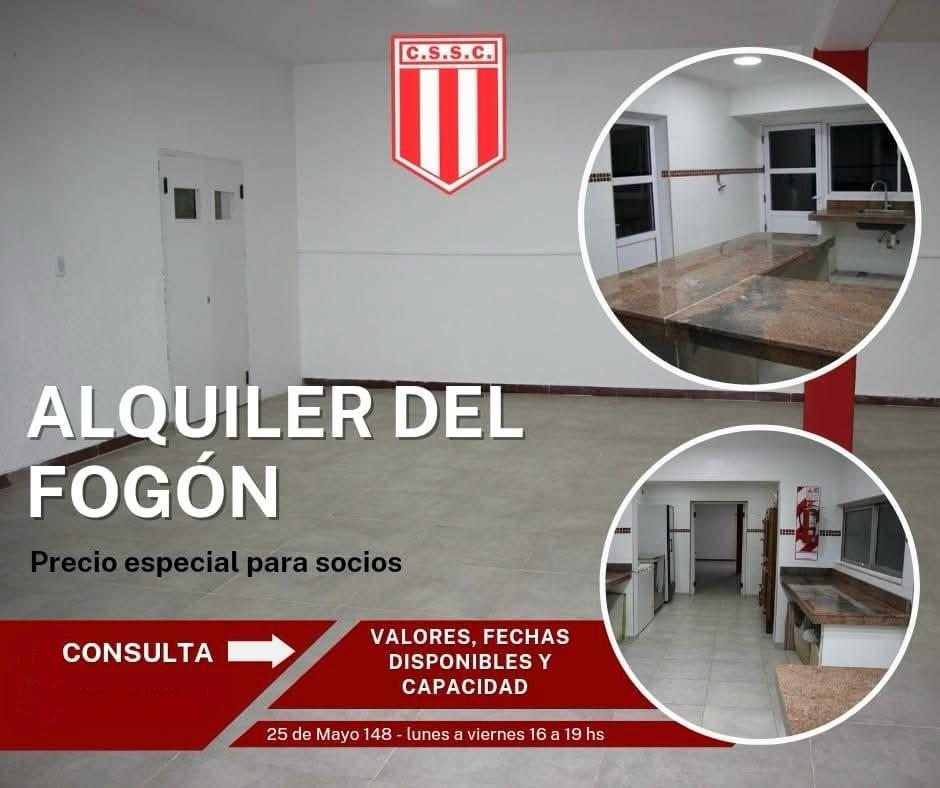
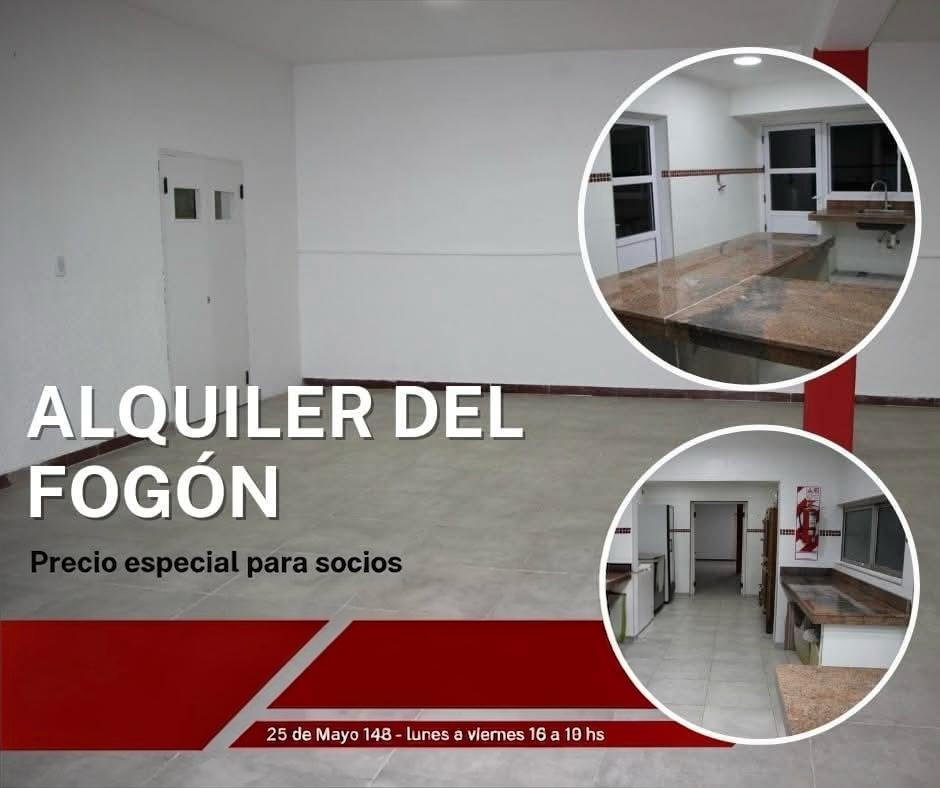
Inicio: secciones con fundido, carrusel deslizable y nueva foto del fogon

diff --git a/codigo/frontend/src/paginas/Inicio.css b/codigo/frontend/src/paginas/Inicio.css
@@ -75,3 +75,58 @@
     justify-content: center;
   }
 }
+
+/* Las secciones aparecen con un fundido suave cuando entran en la pantalla al bajar */
+@keyframes aparecer {
+  from {
+    opacity: 0;
+    transform: translateY(var(--e4));
+  }
+  to {
+    opacity: 1;
+    transform: none;
+  }
+}
+
+/* Solo si la persona no pidió menos movimiento en su sistema
+   y si el navegador sabe atar la animación al scroll */
+@media (prefers-reduced-motion: no-preference) {
+  @supports (animation-timeline: view()) {
+    .inicio__seccion {
+      animation: aparecer linear both;
+      animation-timeline: view();
+      animation-range: entry 0% entry 40%;
+    }
+  }
+}
+
+/* Novedades e instalaciones en el celular: una fila que se desliza con el dedo.
+   Cada tarjeta ocupa el 85% del ancho, así se ve un pedacito de la siguiente
+   y se entiende que hay más. */
+.lista-tarjetas.inicio__deslizable {
+  display: flex;
+  gap: var(--e3);
+  overflow-x: auto;
+  scroll-snap-type: x mandatory;
+  padding-bottom: var(--e2); /* lugar para la barra de desplazamiento */
+}
+
+/* Al soltar, la tarjeta se acomoda sola en el centro */
+.inicio__deslizable > * {
+  flex: 0 0 85%;
+  scroll-snap-align: center;
+}
+
+/* En tablet se ven dos tarjetas y un pedacito de la siguiente */
+@media (min-width: 768px) {
+  .inicio__deslizable > * {
+    flex-basis: 45%;
+  }
+}
+
+/* En PC, dos y media: la que queda cortada invita a deslizar */
+@media (min-width: 1024px) {
+  .inicio__deslizable > * {
+    flex-basis: 40%;
+  }
+}

diff --git a/codigo/frontend/src/paginas/Inicio.jsx b/codigo/frontend/src/paginas/Inicio.jsx
@@ -91,7 +91,13 @@ export default function Inicio() {
         </Seccion>
 
         <Seccion id="novedades" titulo="Novedades" vacia={datos.novedades.length === 0}>
-          <div className="lista-tarjetas">
+          {/* En el celular las novedades van en una fila que se desliza con el dedo */}
+          <div
+            className="lista-tarjetas inicio__deslizable"
+            tabIndex={0}
+            role="region"
+            aria-label="Novedades: deslizá para ver más"
+          >
             {datos.novedades.map((n) => (
               <Tarjeta key={n.id_novedad} titulo={n.titulo} texto={n.contenido} imagen={n.imagen_url} />
             ))}
@@ -99,7 +105,13 @@ export default function Inicio() {
         </Seccion>
 
         <Seccion id="instalaciones" titulo="Instalaciones" vacia={datos.instalaciones.length === 0}>
-          <div className="lista-tarjetas">
+          {/* Igual que las novedades: en el celular se desliza con el dedo */}
+          <div
+            className="lista-tarjetas inicio__deslizable"
+            tabIndex={0}
+            role="region"
+            aria-label="Instalaciones: deslizá para ver más"
+          >
             {datos.instalaciones.map((i) => (
               <Tarjeta key={i.id_instalacion} titulo={i.nombre} texto={i.descripcion} imagen={i.imagen_url} />
             ))}
